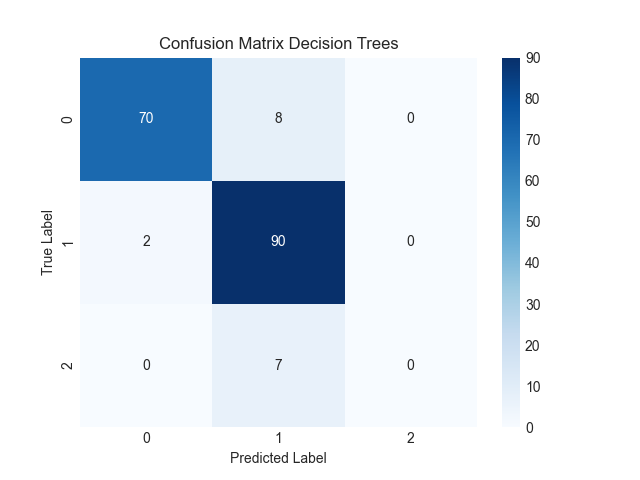
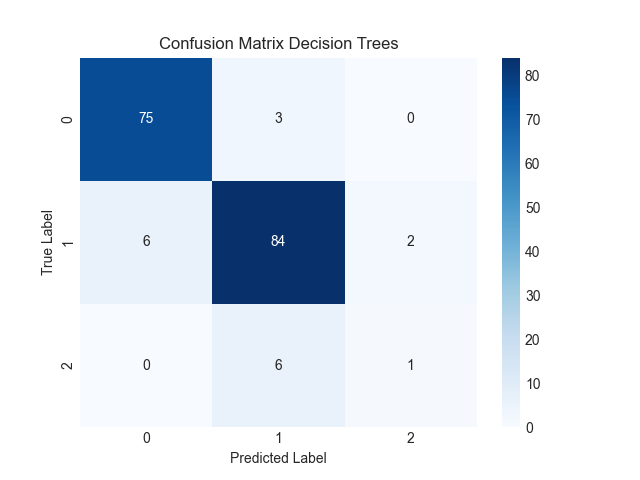
dbscan working

diff --git a/IHM.py b/IHM.py
@@ -27,6 +27,7 @@ from mpl_toolkits.mplot3d import Axes3D
 from scipy.spatial import Delaunay
 import psutil
 import io
+from sklearn.decomposition import PCA
 
 plt.style.use('seaborn-v0_8-whitegrid')
 sns.set_palette("Set2")
@@ -38,8 +39,7 @@ class Preprocessing:
         self.dataFrame = dataFrame   
         numeric_columns = self.dataFrame.select_dtypes(include=['int', 'float']).columns.tolist() # column label
         self.numeric_columns = [self.dataFrame.columns.get_loc(col) for col in numeric_columns]
-    
-
+  
     def val_manquante(self, attribute):
         L=[]
         for i in range(0,len(self.dataset[:,attribute])):
@@ -146,7 +146,6 @@ class Preprocessing:
     def reduire_row(self):
         self.dataset= np.unique(self.dataset, axis=0, return_index=False)
     
-
     def coef_correl(self, attribut1,attribut2):
         moy1=np.mean(self.dataset[:,attribut1])
         moy2=np.mean(self.dataset[:,attribut2])
@@ -912,8 +911,7 @@ class DtClassifier:
             return self.make_prediction(x, tree.left)
         else:
             return self.make_prediction(x, tree.right)
-        
-        
+              
 class RandomForestClassifier:
     def __init__(self, n_trees, max_depth, min_samples_split, n_features, info_gain_method):
         self.n_trees = n_trees
@@ -998,8 +996,9 @@ class K_MEANS:
     #bonus
     def _prediction(self,instance):
         distances=[]
+        print("centroids array: ", self.centroid)
         for i in range(self.k):
-            distances.append(distance(self.centroid[i],instance,self.methode_d ))
+            distances.append(distance(self.centroid[i],instance,self.methode_d))
         return np.argmin(distances),np.array([row[:-1] for row in self.dataset_letiqu if row[-1]==np.argmin(distances)])
 
 class ClusteringMetrics:
@@ -1007,7 +1006,7 @@ class ClusteringMetrics:
         self.dataset = dataset
         self.y_pred = y_pred
     
-    def silhouette_score(data, labels, metric):
+    def silhouette_score(self, data, labels, metric):
         num_points = len(data)
         unique_labels = np.unique(labels)
         silhouette_values = np.zeros(num_points)
@@ -1405,7 +1404,6 @@ class App:
         self.preprocessor_instance.reduire_row()
         self.preprocessor_instance.reduire_dim(0.75)
         dataset = self.preprocessor_instance.dataset
-        print('#########################',dataset.shape)
         instance = dataset[-1]
         print(instance)
 
@@ -1467,60 +1465,61 @@ class App:
 
         return classification_report, y_instance, [conf_matrix_plot]
 
-    def clustering(self,  model, metric, minkowski_param, n_cluster_km, centroid_select_method_km, max_iterations_km, min_samples_db, radius_db, instance, PCA):
+    def clustering(self, model, metric, minkowski_param, n_cluster_km, centroid_select_method_km, max_iterations_km, min_samples_db, radius_db, pca_clust, instance):
         metric = self.metric_value(metric, int(minkowski_param))
         dataset = self.dataset1[:, :-1]
         prediction = None
-        if PCA == "Yes":
+        if pca_clust == "Yes":
             pca = PCA(n_components=2)
             dataset = pca.fit_transform(dataset)
         else:
             pca = None
-
+            plot = None
         if model == 'K-Means':
             instance = np.array([[float(item) for item in inner_list] for inner_list in instance])
             dt1 = np.vstack([self.dataset11, instance])
-            self.dataset11 = dt1
 
-            self.preprocessor_instance = Preprocessing(self.dataset11, pd.DataFrame(self.dataset11))
+            self.preprocessor_instance = Preprocessing(dt1, pd.DataFrame(dt1))
             self.preprocessor_instance.remplacement_manquant_generale(self.manque_meth)
             self.preprocessor_instance.remplacement_aberantes_generale(self.aberrante_meth)
             self.preprocessor_instance.normalisation_generale(self.normalization_meth, int(self.vmin), int(self.vmax)) 
             self.preprocessor_instance.reduire_row()
             self.preprocessor_instance.reduire_dim(0.75)
-            dataset = self.preprocessor_instance.dataset
-            instance = dataset[-1]
+            dt1 = self.preprocessor_instance.dataset
+            if pca_clust == 'Yes':
+                dt1 = pca.fit_transform(dt1)
+            instance = dt1[-1]
 
-            kmeansClustering = K_MEANS(k=n_cluster_km,methode_d=metric,methode_c=centroid_select_method_km,max_iterations=max_iterations_km, dataset=dataset)#k=2, pca=2, methode_d2 methode_c 1 3000 800
+            kmeansClustering = K_MEANS(k=int(n_cluster_km),methode_d=metric,methode_c=centroid_select_method_km,max_iterations=max_iterations_km, dataset=dataset)#k=2, pca=2, methode_d2 methode_c 1 3000 800
             kmeansClustering.fit(dataset)
-            clustering_dataset = self.dataset1
-            res=kmeansClustering._cluster()[:,-1]
-            prediction=kmeansClustering._prediction(instance.tolist())
-            labeled_dataset = pd.DataFrame(res, columns=[f"feature_{i+1}" for i in range(self.dataset1.shape[1])] + ["cluster_label"])
+            res=kmeansClustering._cluster()[:, -1]
+            km_labeled_dataset = np.concatenate((self.dataset1[:, :-1], res.reshape(-1, 1)), axis=1)
+            prediction=kmeansClustering._prediction(instance.tolist())[0]
+            labeled_dataset = pd.DataFrame(km_labeled_dataset, columns=[f"feature_{i+1}" for i in range((km_labeled_dataset.shape[1])-1)] + ["cluster_label"])
 
         else:
-            DBSCANClustering=DB_Scan(radius_db, min_samples_db, methode_d=metric, dataset=clustering_dataset)# 1.2 5 0.45  1/0/1
-            clustering_dataset = np.array(DBSCANClustering[0])
-            res = DBSCANClustering[1]
-            labeled_dataset = pd.DataFrame(res, columns=[f"feature_{i+1}" for i in range(len(res[0]))])
-            labeled_dataset["cluster_label"] = clustering_dataset[-1] 
+            DBSCANClustering=DB_Scan(radius_db, min_samples_db, methode_d=metric, dataset=dataset)# 1.2 5 0.45  1/0/1
+            res = np.array(DBSCANClustering[1])
 
+            DBSCAN_labeled_dataset = np.concatenate((self.dataset1[:, :-1], res.reshape(-1, 1)), axis=1)
+            labeled_dataset = pd.DataFrame(DBSCAN_labeled_dataset, columns=[f"feature_{i+1}" for i in range((DBSCAN_labeled_dataset.shape[1])-1)] + ["cluster_label"])
+            
         self.ClusteringMetrics = ClusteringMetrics(dataset, res)
-        silhouette_score, intra_distance, inter_distance = self.ClusteringMetrics.silhouette_score(clustering_dataset, res, metric)
+        silhouette_score, intra_distance, inter_distance = self.ClusteringMetrics.silhouette_score(dataset, res, metric)
 
 
-        if PCA=="Yes":
+        if pca_clust=="Yes":
             plot1 = plt.figure()
-            self.clustering_plots(clustering_dataset[:, 0], clustering_dataset[:, 1], res)
+            self.clustering_plots(dataset[:, 0], dataset[:, 1], res)
             plot1.savefig("clustering_PCA.png")
             plt.close(plot1)
             plot = ["clustering_PCA.png"]
 
         data = {
-            "Silhouette": silhouette_score,
-            "Intra Cluster Distance": intra_distance,
-            "Inter Cluster Distance": inter_distance
-            }
+            "Silhouette": [silhouette_score],
+            "Intra Cluster Distance": [intra_distance],
+            "Inter Cluster Distance": [inter_distance]
+        }
 
         clustering_report = pd.DataFrame(data)
 
@@ -1598,13 +1597,13 @@ class App:
                                     knn_param = [gr.Number(value=3, minimum=2, maximum=5, step=1, label="K")]
 
                                 with gr.Row(visible=False) as DT_param_row:
-                                    DT_param = [gr.Number(value=3, minimum=1, maximum=10, step=1, label="Minimum samples split"), 
-                                           gr.Number(value=3, minimum=2, maximum=10, step=1, label="Maximum depth"), 
+                                    DT_param = [gr.Number(value=2, minimum=1, maximum=10, step=1, label="Minimum samples split"), 
+                                           gr.Number(value=5, minimum=2, maximum=10, step=1, label="Maximum depth"), 
                                            gr.Dropdown(["Gini", "Entropy"], multiselect=False, label="Information gain metric", info="Select an information gain metric :")]
                                 
                                 with gr.Row(visible=False) as RF_param_row:
-                                    RF_param = [gr.Number(value=3, minimum=1, maximum=10, step=1, label="Minimum samples split"), 
-                                           gr.Number(value=3, minimum=2, maximum=12, step=1, label="Maximum depth"),
+                                    RF_param = [gr.Number(value=2, minimum=1, maximum=10, step=1, label="Minimum samples split"), 
+                                           gr.Number(value=6, minimum=2, maximum=12, step=1, label="Maximum depth"),
                                            gr.Number(value=30, minimum=10, maximum=500, step=10, label="Number of trees"),
                                            gr.Number(value=6, minimum=2, maximum=12, step=1, label="Number of features"),
                                            gr.Dropdown(["Gini", "Entropy"], multiselect=False, label="Information gain metric", info="Select an information gain metric :")]
@@ -1660,10 +1659,10 @@ class App:
                                                      gr.Number(value=3000, minimum=100, maximum=10000, step=100, label="Maximum Iterations")]
 
                                 with gr.Row(visible=False) as DBSCAN_param_row:
-                                    DBSCAN_param = [gr.Number(value=20, minimum=5, maximum=50, step=5, label="Minimum samples"), 
-                                           gr.Number(value=0.8, minimum=0.1, maximum=2.0, step=0.1, label="Radius")]
+                                    DBSCAN_param = [gr.Number(value=5, minimum=5, maximum=50, step=5, label="Minimum samples"), 
+                                           gr.Number(value=1.2, minimum=0.1, maximum=3.0, step=0.1, label="Radius")]
                                 
-                                PCA = [gr.Radio(['Yes', 'No'], label="PCA")]
+                                pca = [gr.Radio(['Yes', 'No'], label="PCA")]
 
                             with gr.Row(visible=False) as clustering_instance_row:
                                 clustering_instance = [gr.List(col_count=13, label="Insert an instance to predict its cluster :")]
@@ -1695,7 +1694,7 @@ class App:
                             model_clustering[0].change(update_visibility_model_param, inputs=model_clustering[0], outputs=[DBSCAN_param_row, KMeans_param_row, clustering_instance_row, instance_cluster_row])
                             
                             btn = gr.Button("Train")
-                            btn.click(fn=self.clustering, inputs=model_clustering+metric_clustering+KMeans_param+DBSCAN_param+clustering_instance+PCA, outputs=labeled_dataset+clustering_report+instance_cluster+clustering_gallery)
+                            btn.click(fn=self.clustering, inputs=model_clustering+metric_clustering+[minkowski_param_clustering]+KMeans_param+DBSCAN_param+pca+clustering_instance, outputs=labeled_dataset+clustering_report+instance_cluster+clustering_gallery)
                
 
             with gr.Tab("COVID-19"):
